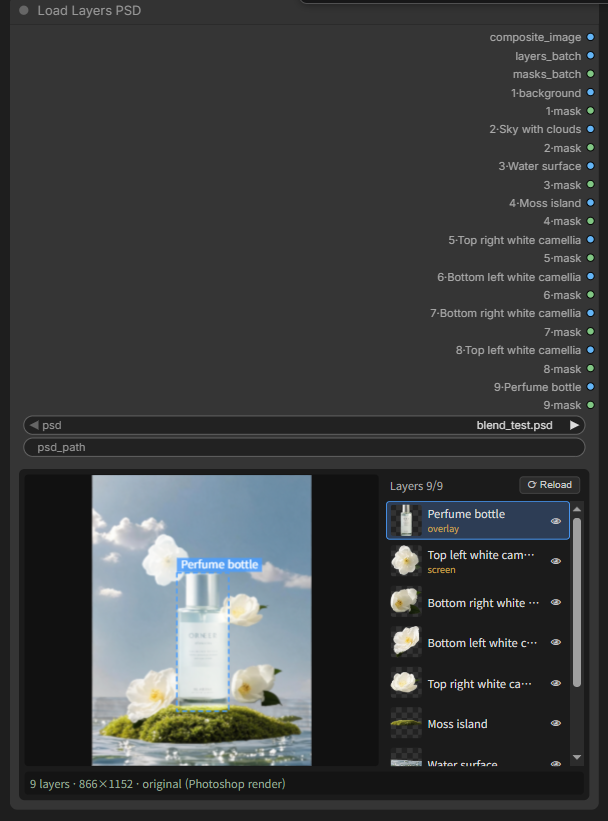
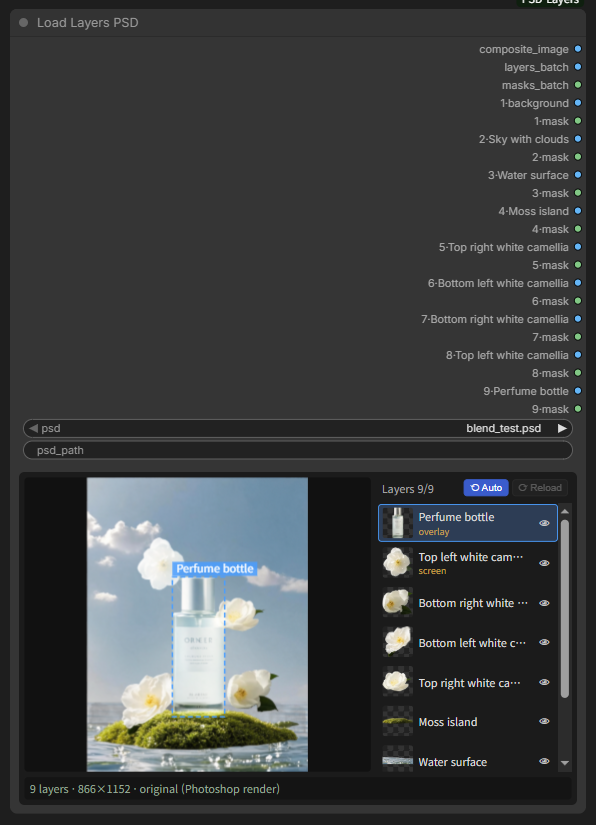
Docs: auto-reload feature description + refreshed Load screenshots
Node screenshot now shows the Auto toggle enabled (Reload disabled);
workflow screenshot refreshed with the one-row header. fixOverflow now
compares the panel's needed height against the DOM-widget wrapper
allocation (catches the panel punching through a too-small allocation)
and debounces so back-to-back inspects don't compound the expansion.

diff --git a/web/js/loadLayersPsd.js b/web/js/loadLayersPsd.js
@@ -394,17 +394,23 @@ class LoadPsdPanel {
   }
 
   // 슬롯 증감/콘텐츠 증가로 패널이 노드 밖으로 넘치면 그만큼 노드를 키운다.
-  // scrollHeight-clientHeight 는 CSS px 기준 내부 오버플로량이라 줌 스케일과 무관하다.
+  // 필요 높이(root.scrollHeight: min-height·콘텐츠 반영) vs litegraph 가 할당한
+  // 래퍼 높이를 CSS px 로 비교 — 패널이 래퍼를 뚫는 경우와 내부 콘텐츠가
+  // 넘치는 경우를 모두 잡고, 줌 스케일과 무관하다.
   fixOverflow() {
-    requestAnimationFrame(() => {
+    // 연속 호출(자동 inspect + 수동 inspect 등)을 디바운스 — 확장 직후 래퍼 높이가
+    // 다음 draw까지 구값이라 중복 측정하면 과확장된다.
+    clearTimeout(this._ovfTimer);
+    this._ovfTimer = setTimeout(() => {
       const node = this.node;
       if (!this.root.isConnected) return;
-      const overflow = this.root.scrollHeight - this.root.clientHeight;
+      const given = this.root.parentElement?.offsetHeight || this.root.clientHeight;
+      const overflow = this.root.scrollHeight - given;
       if (overflow > 4) {
         node.setSize([node.size[0], node.size[1] + overflow + 10]);
         node.graph?.setDirtyCanvas(true, true);
       }
-    });
+    }, 250);
   }
 
   // ---- 편집 → 상태 위젯 + 서버 재합성 ----

diff --git a/README.ko.md b/README.ko.md
@@ -87,6 +87,10 @@ ComfyUI용 PSD 레이어 워크플로우 노드. Photoshop 설치 불필요.
 - 패널의 순서/숨김 편집은 `layer_state` 위젯에 직렬화 → 캐시 무효화 + composite 출력에 반영.
   레이어별 출력 슬롯 순서는 편집과 무관하게 고정.
 - **Reload 버튼** + 원본 파일 변경 시 다음 실행에서 자동 재로드(mtime 기반 `IS_CHANGED`).
+- **Auto reload 토글** (Reload 왼쪽, 기본 꺼짐, 노드별로 상태 유지): 원본 파일 —
+  `psd_path` 또는 input 폴더의 PSD — 을 감시해 변경되면 패널을 자동으로 다시 읽는다.
+  저장이 진행 중인 파일은 안정될 때까지 기다렸다가 읽고, 켜져 있는 동안 수동 Reload
+  버튼은 비활성화된다. 포토샵에서 수정하며 작업하는 루프에 적합하다.
 
 ## 설치
 

diff --git a/README.md b/README.md
@@ -94,6 +94,10 @@ For remote access the path must be readable by the server; otherwise use drag & 
   original PSD order regardless of edits.
 - **Reload button**, plus automatic reload on the next run when the source file changes
   (mtime-based `IS_CHANGED`).
+- **Auto reload toggle** (left of Reload, off by default, persisted per node): watches the
+  source file — `psd_path` or the input-folder PSD — and reloads the panel automatically
+  when it changes. Saves-in-progress are debounced until the file stabilizes; while enabled,
+  the manual Reload button is disabled. Ideal for the edit-in-Photoshop loop.
 
 ## Installation
 
